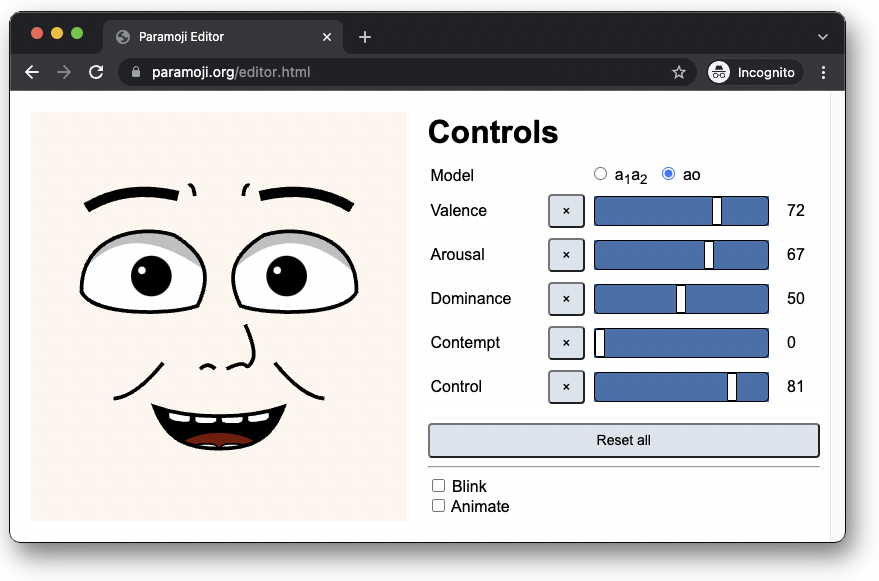
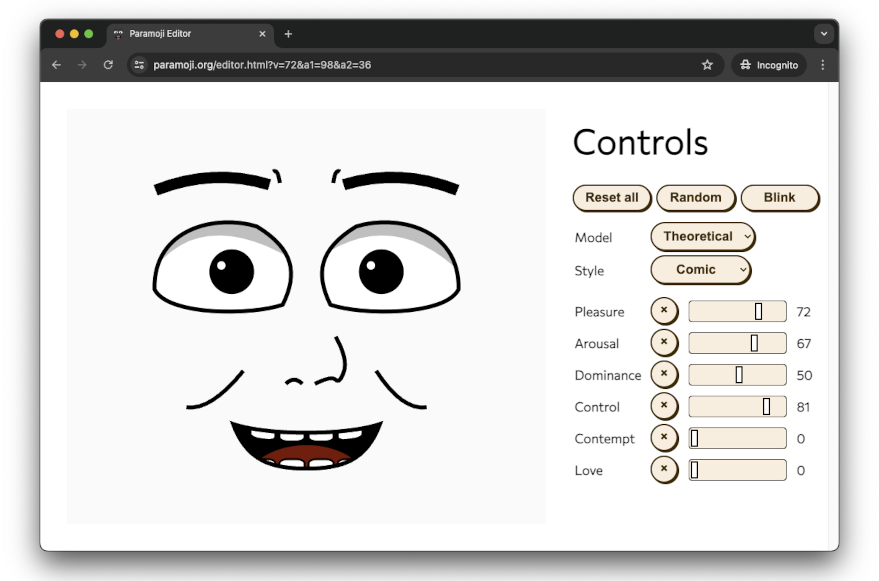
editor styling

diff --git a/web/style.css b/web/style.css
@@ -28,42 +28,10 @@ a {
     color: firebrick;
 }
 
-.mt-1 {
-    margin-top: 10px;
-}
-.mb-1 {
-    margin-bottom: 10px;
-}
-
 .slider {
     width: 90%;
 }
 
-input[type=range]::-webkit-slider-runnable-track {
-    width: 100%;
-    height: 30px;
-    cursor: pointer;
-    background: #3071A9;
-    border-radius: 5px;
-    border: 1px solid #000000;
-}
-
-input[type=range]::-webkit-slider-thumb {
-    border: 1px solid #000000;
-    height: 28px;
-    width: 10px;
-    border-radius: 1px;
-    background: #FFFFFF;
-    cursor: pointer;
-    -webkit-appearance: none;
-}
-
-input[type=range] {
-    background: #3071A9;
-    margin: 5px;
-    height: 30px;
-    -webkit-appearance: none;
-}
 
 div {
     margin: 0;
@@ -119,12 +87,11 @@ div#app {
     padding-right: 10px;
 }
 
-button {
-    border-radius: 4px;
-    background-color: #3071A930;
-    width: 100%;
-    padding: 1ex;
-    font-size: 14px;
+@media (min-width: 768px) {
+  .button-74 {
+    min-width: 120px;
+    padding: 0 25px;
+  }
 }
 
 
@@ -220,5 +187,67 @@ select {
     a.button7 {
         display:block;
         margin:0.4em auto;
+    }
+}
+.paramoji-editor {
+
+    td {
+        font-weight: 600;
+        font-size: 18px;
+    }
+    button, select {
+        background-color: #fbeee0;
+        border: 2px solid #422800;
+        border-radius: 30px;
+        box-shadow: #422800 2px 2px 0 0;
+        margin: 0 2px 2px 0;
+        color: #422800;
+        cursor: pointer;
+        display: inline-block;
+        font-weight: 600;
+        font-size: 18px;
+        line-height: 0.8rem;
+        text-align: center;
+        text-decoration: none;
+        user-select: none;
+        -webkit-user-select: none;
+        touch-action: manipulation;
+        padding: 7px 12px;
+    }
+
+    button:hover, select:hover {
+        background-color: #fff;
+    }
+
+    button:active, select:active {
+        box-shadow: #422800 0px 0px 0 0;
+        transform: translate(2px, 2px);
+    }
+    input[type=range]::-webkit-slider-runnable-track {
+        width: 100%;
+        height: 30px;
+        cursor: pointer;
+        background: #fbeee0;
+        border-radius: 5px;
+        border: 1px solid #000000;
+    }
+
+    input[type=range]::-webkit-slider-thumb {
+        border: 2px solid #000000;
+        height: 24px;
+        width: 10px;
+        margin: 2px;
+        border-radius: 1px;
+        background: #FFFFFF;
+        cursor: pointer;
+        -webkit-appearance: none;
+    }
+
+    input[type=range] {
+        background: #fbeee0;
+        border: 2p solid black;
+        margin: 5px;
+        height: 30px;
+        -webkit-appearance: none;
     }
 }

diff --git a/web/editor.html b/web/editor.html
@@ -15,18 +15,19 @@
     <title>Paramoji Editor</title>
 </head>
 <body class="no-margin">
-<div id="app">
+<div id="app" class="paramoji-editor">
     <div id="emoticon">
         <div class="space" v-html="paramoji()"></div>
     </div>
     <div id="control">
         <div id="dimensions">
             <h1>Controls</h1>
-            <div class="button-row mt-1 mb-1">
+            <div class="button-row">
                 <button @click="animateTo(neutralState())">Reset all</button>
                 <button @click="random()">Random</button>
                 <button @pointerdown="blink=true" @pointerup="blink=false" @pointerleave="blink=false">Blink</button>
             </div>
+            <div style="height: 10px"></div>
             <table id="sliders" width="100%">
                 <tr>
                     <td>Model</td>
@@ -47,6 +48,7 @@
                         </select>
                     </td>
                 </tr>
+                <tr style="height: 10px"></tr>
                 <template v-if="['ao','a1a2'].includes(model)">
                     <tr>
                         <td>Pleasure</td>

diff --git a/web/paramoji.js b/web/paramoji.js
@@ -172,7 +172,7 @@ function add_love(svg, l) {
         '<path id="love"',
         ' d="m -21,-13 c -11,0 -19,8 -19,18 0,14 9,23 40,48 C 32,28 40,19 40,5 40,-5 32,-13 21,-13 12,-13 7,-8 3,-3 L 0,1 -3,-3 c -4,-5 -9,-10 -18,-10 z"',
         ' transform="translate(50,55) scale(?) translate(0, -15)"',
-        ' style="fill:rgba(100,0,0,?); stroke: black; stroke-width:1" />'
+        ' style="fill:rgba(150,0,0,?); stroke: black; stroke-width:1" />'
     ]
     const dotprod = (X,Y) => X.reduce((a, b, i) => a + b*(Y[i] || 0), 0)
     let index=0,  V= [1, l]
